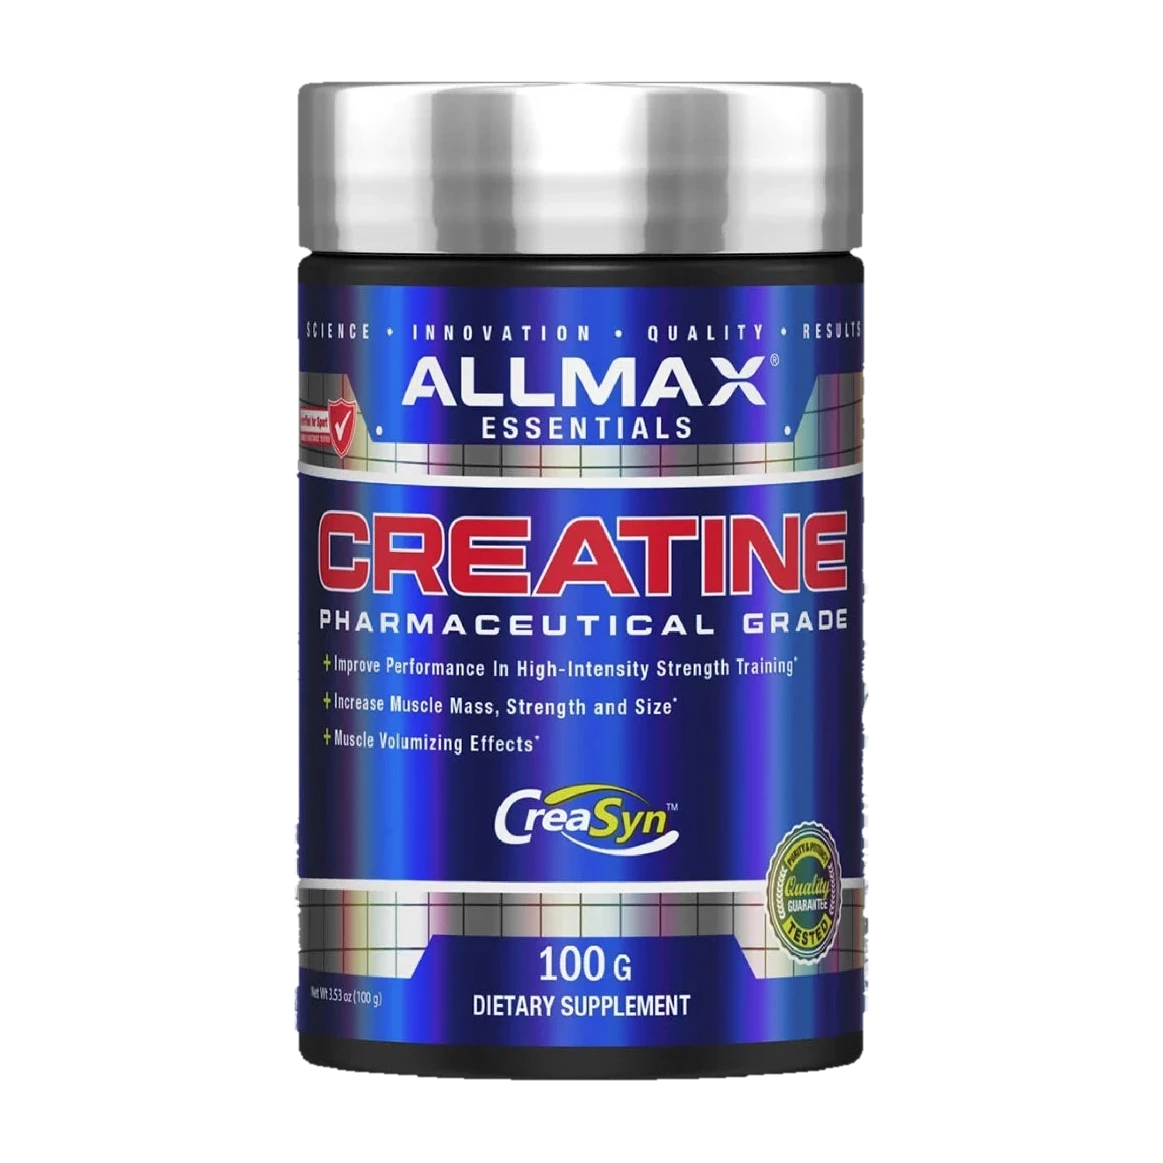
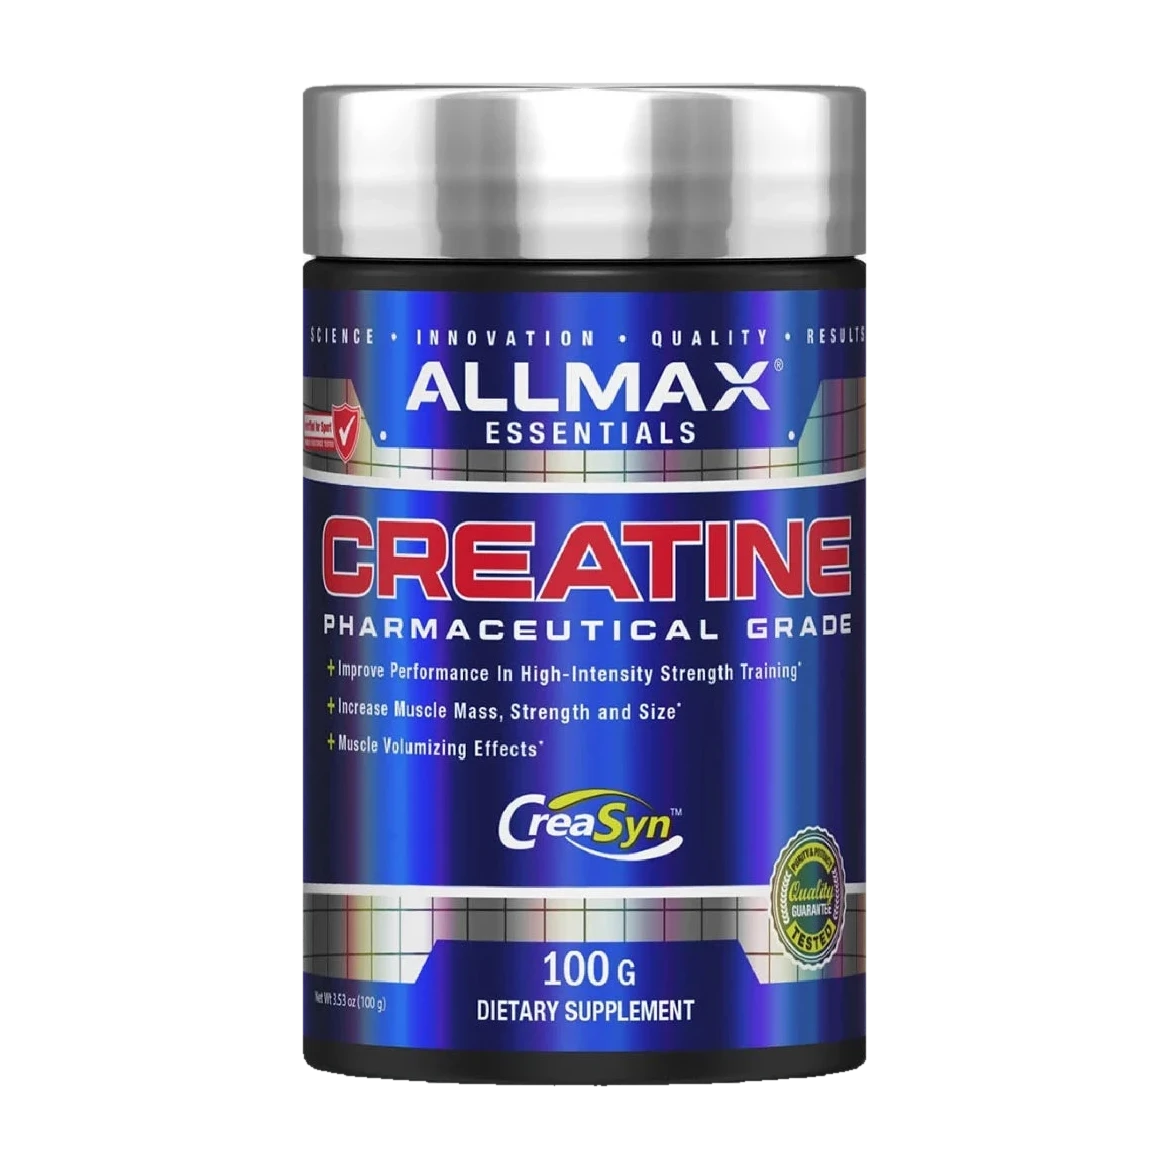
Fix the two Allmax creatine pack photos
- 400 g: use a render with the silver lid the real tub has (canex.ca);
  the previous render showed a black lid.
- 100 g: rebuild the mask from the tub's straight sides so splash drops
  left at the edges no longer show as broken bits in dark mode.

diff --git a/scripts/seed-brand-products.ts b/scripts/seed-brand-products.ts
@@ -5236,8 +5236,8 @@ const products: BrandProduct[] = [
     flavor: "بدون طعم",
     size: "۴۰۰ گرم",
     imageUrl: "/images/products/allmax-creatine-400g.webp",
-    // Pack render from mkpowerland.com (AllMax-Nutrition-Creatine-400g.png,
-    // 500x500, already transparent; the shop's own photos show the same tub).
+    // Pack render from canex.ca (allmax_creatine_400g_1_e.jpg, 797x797, cut out):
+    // silver lid and NPN 80010765, as on the real tub in mkpowerland's photos.
     // Label: NIH DSLD 325793 (Creatine 400 g, 2025): same formula and warnings
     // as the 100 g, but scoop-based directions and an 8-on/2-off cycle.
     description:
